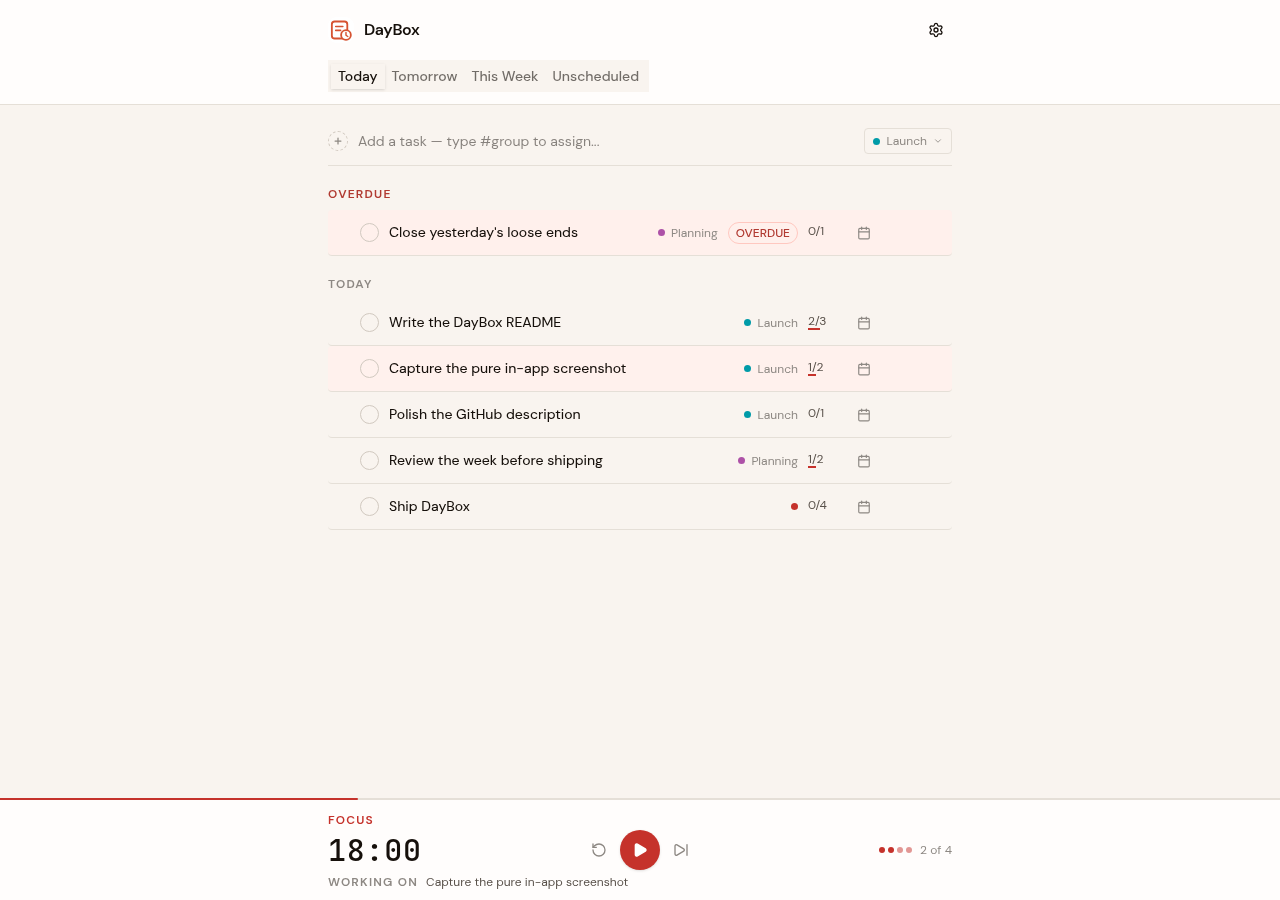
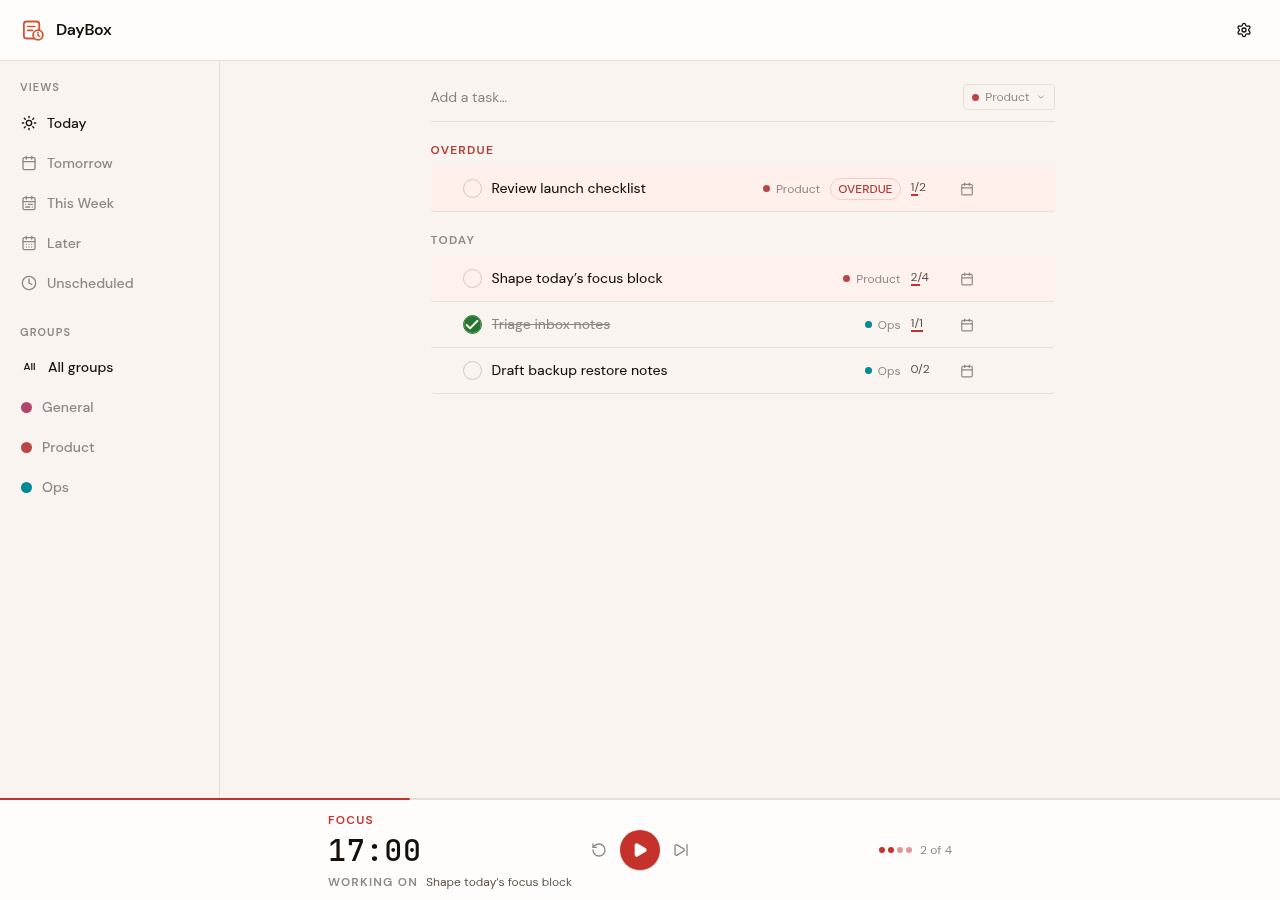
docs: refresh README screenshot

diff --git a/README.md b/README.md
@@ -4,18 +4,19 @@ Local-first Pomodoro timer and task planner for shaping today, tomorrow, and the
 
 ![DayBox screenshot](docs/assets/daybox-screenshot.png)
 
-DayBox is a focused planning app for turning loose tasks into a concrete day. It combines a lightweight task planner with a Pomodoro timer, task groups, and local-first data storage.
+DayBox is a focused planning app for turning loose tasks into a concrete day. It combines a lightweight task planner, group-filtered views, and a Pomodoro timer backed by local-first storage.
 
 ## Features
 
-- Plan tasks for today, tomorrow, the week, or an unscheduled inbox.
+- Plan tasks across Today, Tomorrow, This Week, Later, and Unscheduled views.
+- Add, complete, edit, reschedule, delete, and drag-sort tasks within a day.
+- Organize work with color-coded groups and filter every planner view by group.
 - Track Pomodoro estimates and completed focus sessions per task.
-- Focus the timer on a specific task so the current interval has a clear target.
-- Organize tasks with color-coded groups.
-- Tune focus, short break, and long break durations.
-- Export and import all app data as JSON.
-- Keep data local by default, with optional Google Drive backup.
-- Switch between light and dark themes.
+- Focus the timer on a task so each interval has a clear target.
+- Tune focus, short break, long break, auto-start, alarm, and notification settings.
+- Export/import all app data as JSON, with confirmation before replacing data.
+- Keep data local by default, with optional Google Drive backup and restore.
+- Switch between light and dark themes and choose the first day of the week.
 
 ## Getting Started
 
@@ -48,4 +49,4 @@ Open the local URL printed by Vite.
 
 ## Data And Privacy
 
-DayBox is local-first. Tasks, groups, planner settings, timer settings, and theme preference are stored in browser `localStorage` by default. Export/import is available from the app settings, and Google Drive backup is optional.
+DayBox is local-first. Tasks, groups, planner settings, timer settings, and theme preference are stored in browser `localStorage` by default. Export/import is available from Settings, and Google Drive backup is optional. When configured, Drive backup writes a visible `daybox.json` file to the root of your Google Drive.
